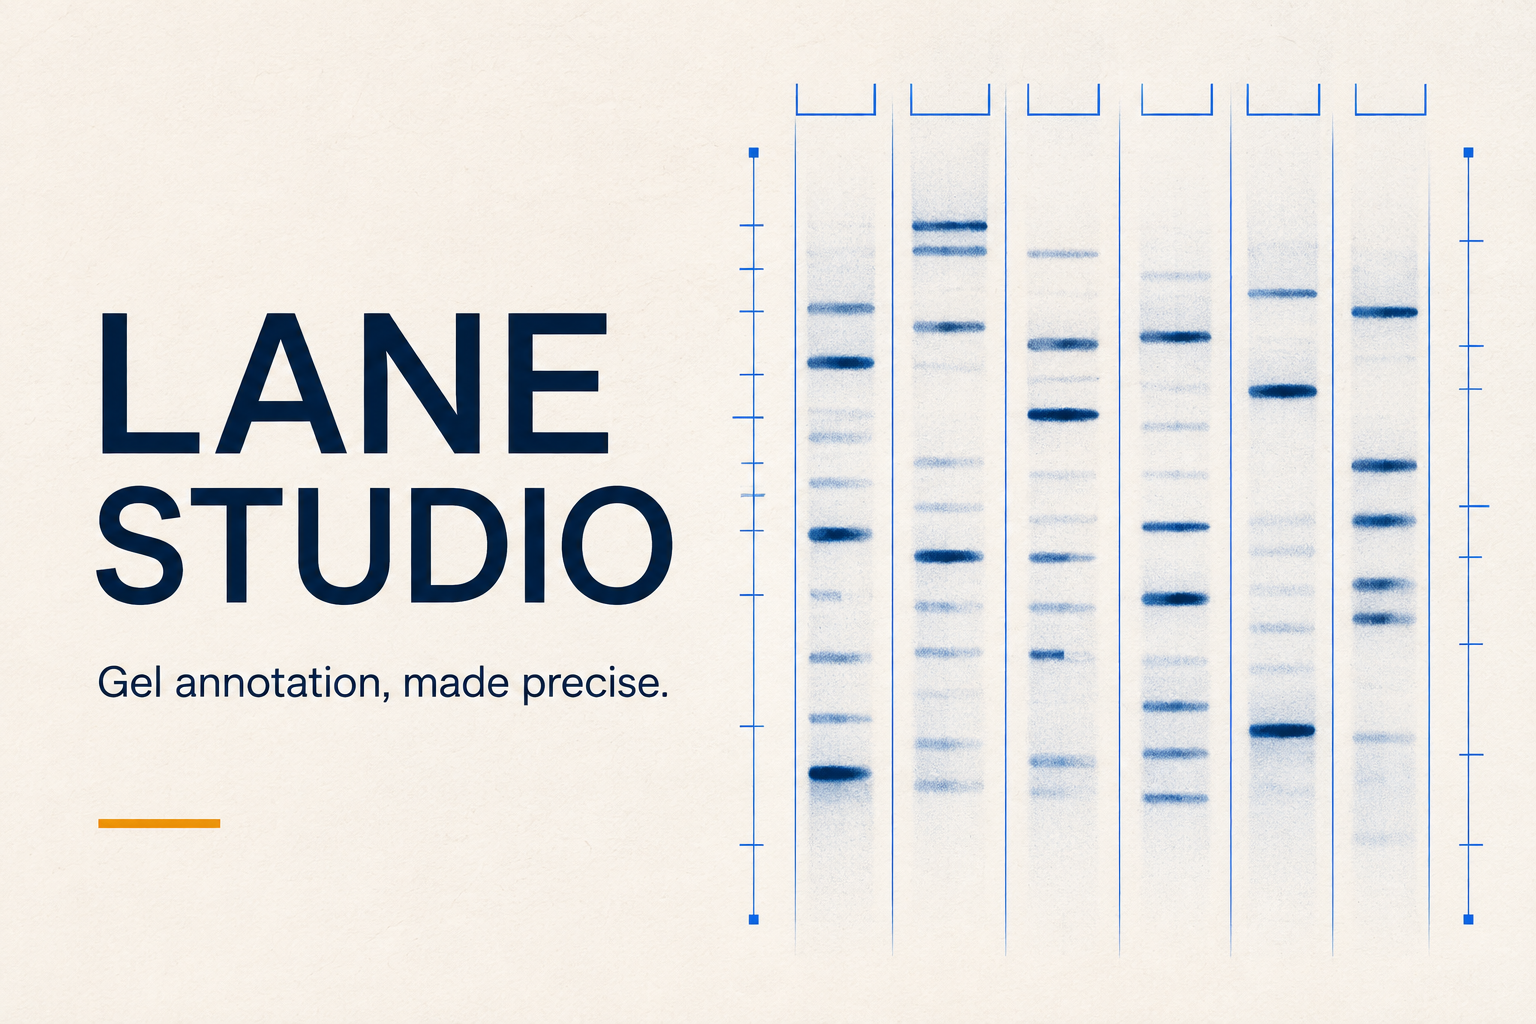
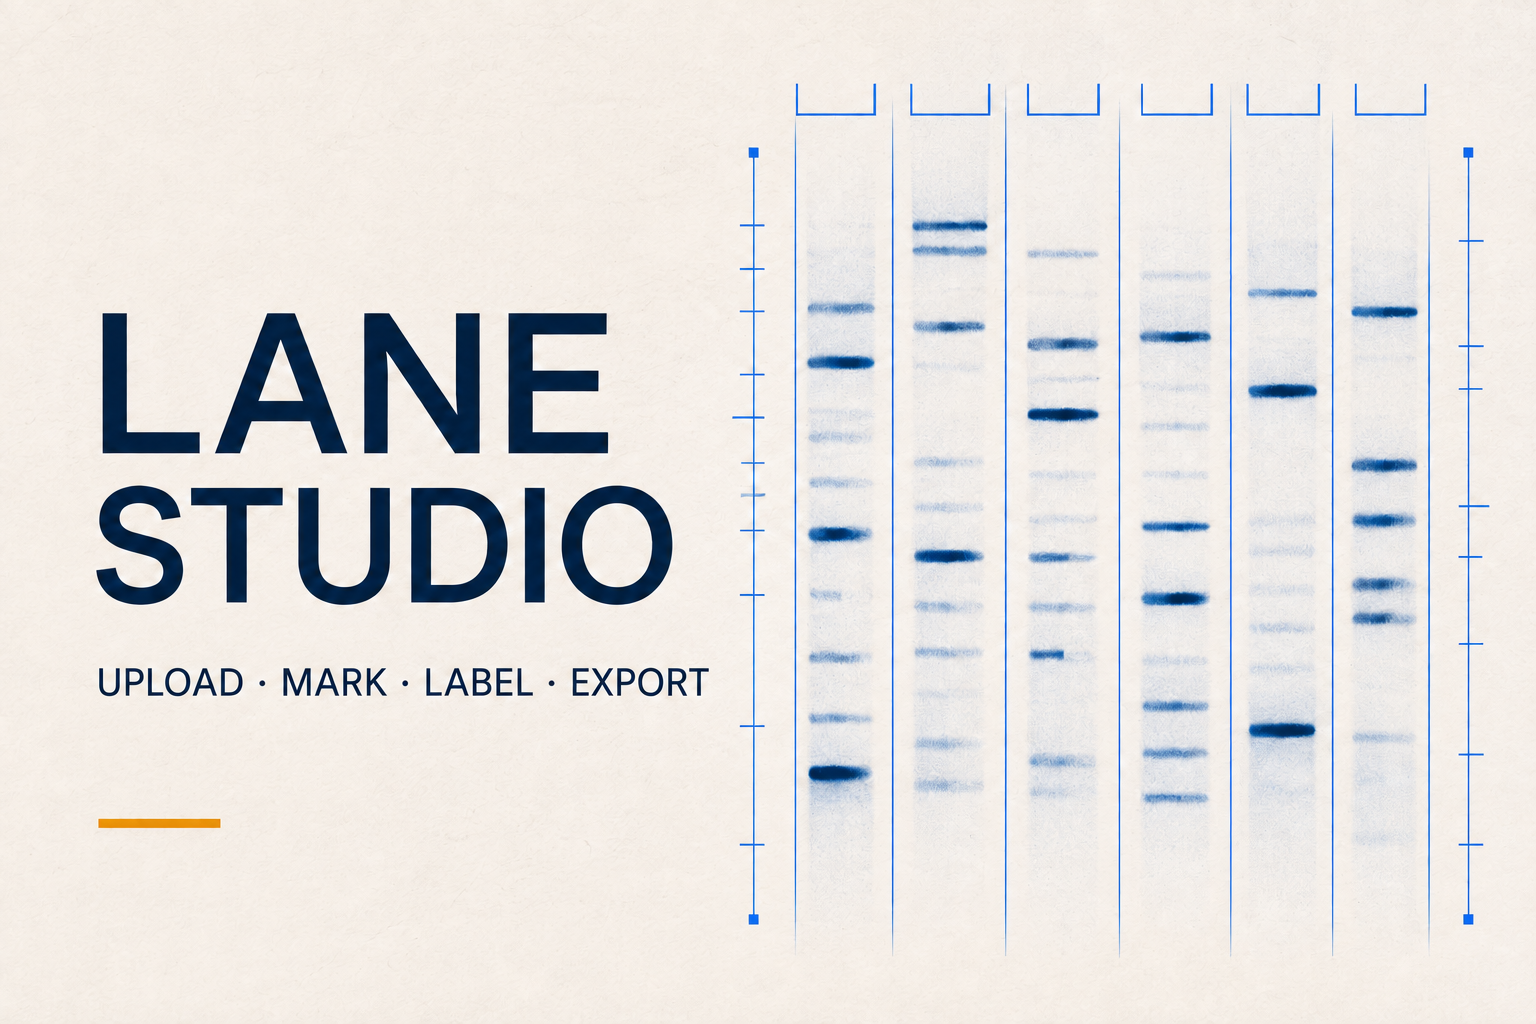
Tighten Lane Studio copy

diff --git a/open-source/index.html b/open-source/index.html
@@ -62,22 +62,22 @@
             <div class="section-index reveal">04 / Open source</div>
             <h1 id="repositories-title" class="section-title reveal">Models should be<br /><em>explorable.</em></h1>
           </div>
-          <p class="section-note reveal">Public code, interactive engineering tools, reproducible figures, and experiments—nine repositories, all open to inspect.</p>
+          <p class="section-note reveal">Nine public repositories.</p>
         </div>
 
         <article class="tool-spotlight reveal" aria-labelledby="lane-studio-title">
           <a class="tool-spotlight-visual" href="https://lane-studio-kjb.katharina-brenner1.chatgpt.site" target="_blank" rel="noreferrer" aria-label="Open Lane Studio">
             <img src="/lane-studio-preview.png" alt="Lane Studio interface motif with annotated gel lanes" width="1536" height="1024" loading="eager" decoding="async" />
-            <span>Live tool ↗</span>
+            <span>Open ↗</span>
           </a>
           <div class="tool-spotlight-copy">
-            <div class="tool-spotlight-meta"><span>New browser tool</span><span>2026</span></div>
+            <div class="tool-spotlight-meta"><span>Web tool</span><span>2026</span></div>
             <h2 id="lane-studio-title">Lane Studio</h2>
-            <p>Arrange, resize, distribute, label, and style lanes directly on gel or blot images—then export a clean annotated PNG. Images stay in the browser.</p>
-            <div class="project-tags"><span>Scientific tools</span><span>Privacy-first</span><span>Open source</span></div>
+            <p>Mark, distribute, label, format, export.</p>
+            <div class="project-tags"><span>Gel images</span><span>Local processing</span><span>Open source</span></div>
             <div class="tool-spotlight-actions">
-              <a class="text-link" href="https://lane-studio-kjb.katharina-brenner1.chatgpt.site" target="_blank" rel="noreferrer">Open Lane Studio <span aria-hidden="true">↗</span></a>
-              <a class="text-link text-link-muted" href="https://github.com/katharina-brenner/gel-lane-studio" target="_blank" rel="noreferrer">View source <span aria-hidden="true">↗</span></a>
+              <a class="text-link" href="https://lane-studio-kjb.katharina-brenner1.chatgpt.site" target="_blank" rel="noreferrer">Open <span aria-hidden="true">↗</span></a>
+              <a class="text-link text-link-muted" href="https://github.com/katharina-brenner/gel-lane-studio" target="_blank" rel="noreferrer">GitHub <span aria-hidden="true">↗</span></a>
             </div>
           </div>
         </article>
@@ -85,7 +85,7 @@
         <div class="repository-list">
           <a class="repository-row reveal" href="https://github.com/katharina-brenner/gel-lane-studio" target="_blank" rel="noreferrer">
             <span class="repository-number">01</span><span class="repository-name">gel-lane-studio</span>
-            <span class="repository-description">Browser-based workspace for arranging, labeling, styling, and exporting gel or blot lanes.</span>
+            <span class="repository-description">Lane editor for gel and blot images.</span>
             <span class="repository-language"><i></i> TypeScript</span><span class="repository-arrow" aria-hidden="true">↗</span>
           </a>
           <a class="repository-row reveal" href="https://github.com/katharina-brenner/archimedes-nexus-process-lab" target="_blank" rel="noreferrer">
